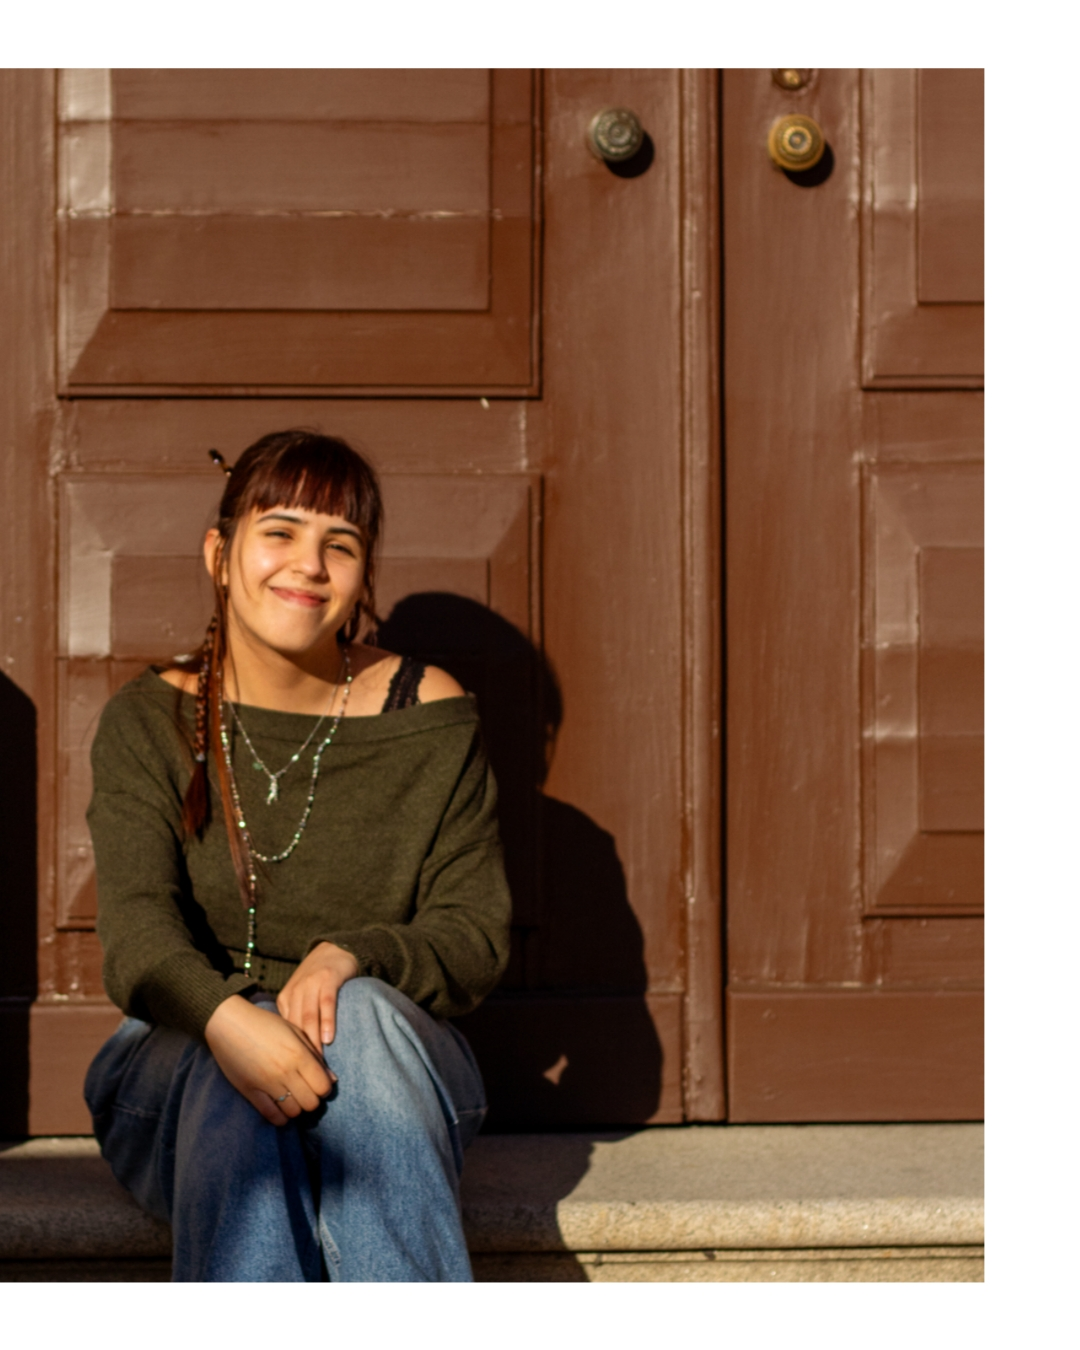
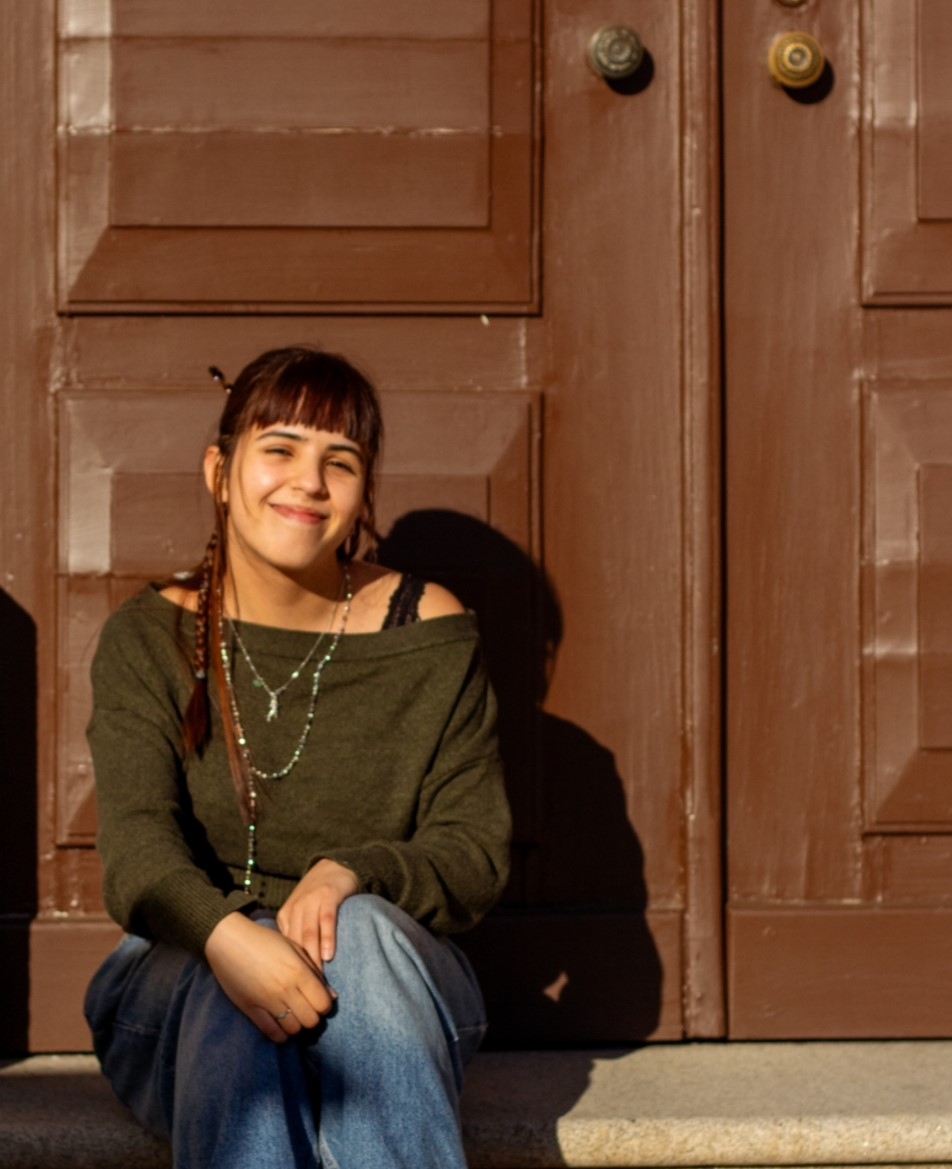
.

diff --git a/frontend/src/Design.jsx b/frontend/src/Design.jsx
@@ -1,4 +1,3 @@
-// Design.jsx
 import React from 'react';
 import Navbar from './components/Navbar';
 import FooterList from './components/FooterList';
@@ -14,9 +13,6 @@ import Ivaristo5 from './assets/Ivaristo/Ivaristo5.png';
 import Ivaristo7 from './assets/Ivaristo/Ivaristo7.png';
 import Ivaristo4 from './assets/Ivaristo/Ivaristo4.png';
 
-
-
-
 function Design() {
     return (
         <div className="page-shell">
@@ -30,7 +26,6 @@ function Design() {
                 </Reveal>
             </section>
 
-{ /* Logotipo da marca*/ }
             <section className="scrapbook-spread">
                 <Reveal variant="rotate-in" delay={0} className="scrap-item pos-1">
                     <ScrapbookPhoto
@@ -42,15 +37,6 @@ function Design() {
                     />
                 </Reveal>
 
-
-                {/* <Reveal variant="fade-up" delay={150} className="scrap-item pos-2">
-  <ScrapbookNote rotate={-2} size="sm">
-    Luminous Poster made for final year project.
-  </ScrapbookNote>
-</Reveal> */}
-
-
-{ /* Post card*/}
                 <Reveal variant="rotate-in" delay={300} className="scrap-item pos-3">
                     <ScrapbookPhoto
                         src={postcard}
@@ -59,26 +45,20 @@ function Design() {
                     />
                 </Reveal>
 
-
-
                 <Reveal variant="pop" delay={450} className="scrap-item pos-4">
                     <h2 className="scrap-quote">
                         A few <em>mockups</em>.
                     </h2>
                 </Reveal>
 
-                
-{/*luminouscard*/}
                 <Reveal variant="rotate-in" delay={200} className="scrap-item pos-5">
                     <ScrapbookPhoto
                         src={placarIvaristo}
                         alt="Referência 3"
-                        rotate={-6} 
+                        rotate={-6}
                     />
                 </Reveal>
 
-
-{ /* coffee*/}
                 <Reveal variant="rotate-in" delay={0} className="scrap-item pos-6">
                     <ScrapbookPhoto
                         src={Ivaristo1}
@@ -87,7 +67,6 @@ function Design() {
                     />
                 </Reveal>
 
-{ /* eyeswall*/}
                 <Reveal variant="rotate-in" delay={0} className="scrap-item pos-7">
                     <ScrapbookPhoto
                         src={Ivaristo5}
@@ -95,7 +74,7 @@ function Design() {
                         rotate={-3}
                     />
                 </Reveal>
-{ /* book*/}
+
                 <Reveal variant="rotate-in" delay={0} className="scrap-item pos-8">
                     <ScrapbookPhoto
                         src={Ivaristo7}
@@ -103,16 +82,14 @@ function Design() {
                         rotate={-8}
                     />
                 </Reveal>
-{ /* sweatshirt*/}
-                 <Reveal variant="rotate-in" delay={0} className="scrap-item pos-9">
+
+                <Reveal variant="rotate-in" delay={0} className="scrap-item pos-9">
                     <ScrapbookPhoto
                         src={Ivaristo4}
                         alt="Referência 7"
                         rotate={3}
                     />
                 </Reveal>
-
-
             </section>
 
             <FooterList />

diff --git a/frontend/src/components/PaginaInicial/HeroVisual.jsx b/frontend/src/components/PaginaInicial/HeroVisual.jsx
@@ -11,6 +11,7 @@ import FotoDez from '../../assets/FotoDez.jpeg';
 import FotoOnze from '../../assets/FotoOnze.jpeg';
 import FotoDoze from '../../assets/FotoDoze.jpeg';
 import FotoTreze from '../../assets/FotoTreze.jpeg';
+import FotoCatorze from '../../assets/FotoCatorze.jpeg';
 
 
 const galleryTiles = [
@@ -20,7 +21,7 @@ const galleryTiles = [
   { key: 'fotoDez', img: FotoDez, style: { gridColumn: '3 / span 2', gridRow: '2 / span 2' } },
   { key: 'fotoNove', img: FotoNove, style: { gridColumn: '1 / span 1', gridRow: '3 / span 1' } },
   { key: 'fotoOito', img: FotoOito, style: { gridColumn: '2 / span 1', gridRow: '3 / span 1' } },
-  { key: 'fotoSete', img: FotoSete, style: { gridColumn: '1 / span 2', gridRow: '4 / span 1' } },
+  { key: 'FotoCatorze', img: FotoCatorze, style: { gridColumn: '1 / span 2', gridRow: '4 / span 1' } },
   { key: 'fotoTreze', img: FotoTreze, style: { gridColumn: '3 / span 2', gridRow: '4 / span 1' } },
   { key: 'fotoQuatro', img: FotoQuatro, style: { gridColumn: '1 / span 1', gridRow: '5 / span 1' } },
   { key: 'foto', img: Foto, style: { gridColumn: '2 / span 1', gridRow: '5 / span 1' } },
